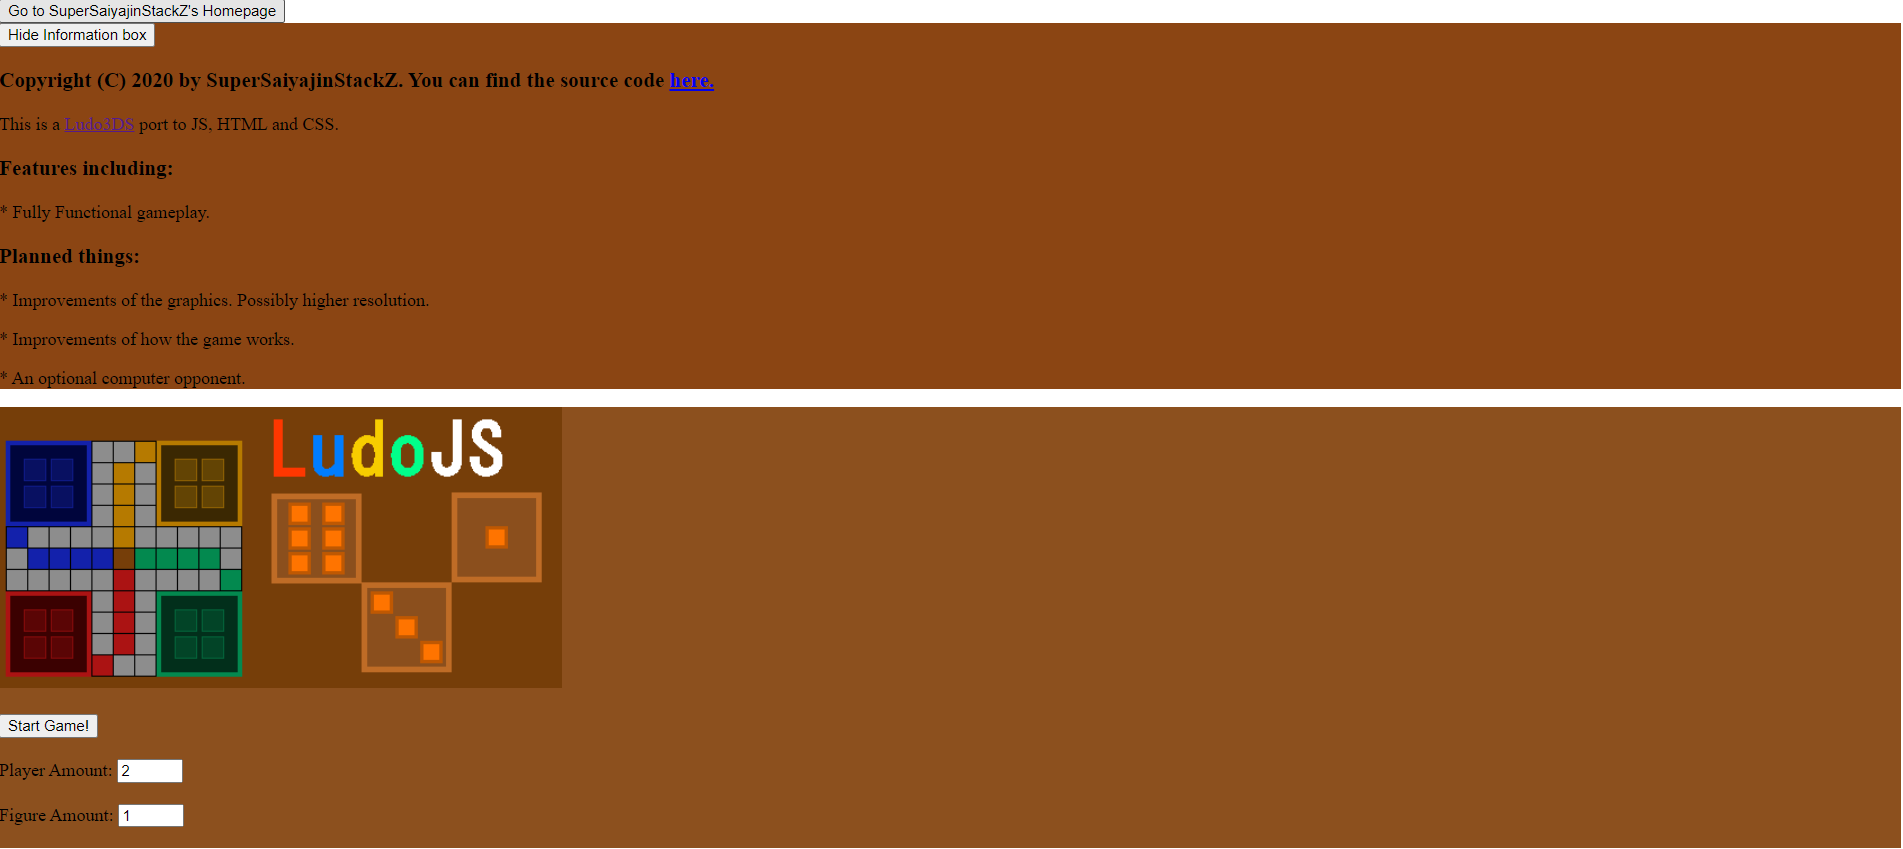
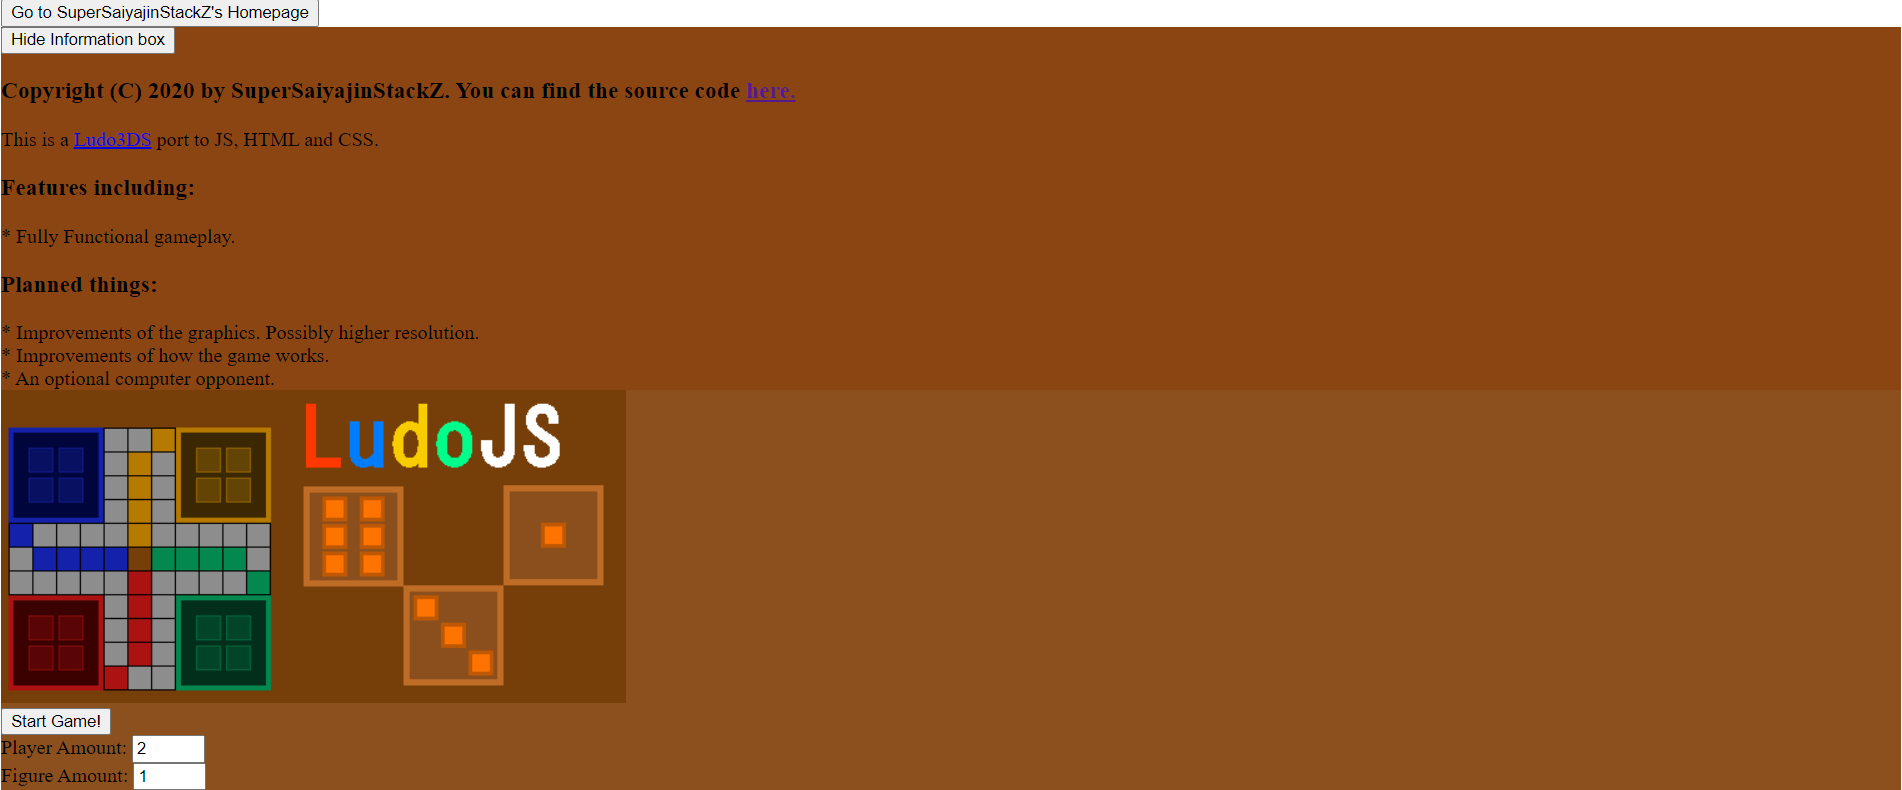
Ein paar kleine änderungen.

Changed region(s): [[0.0, 0.0, 1.0, 1.0], [0.9926, 0.9722, 1.0, 1.0]]

diff --git a/index.html b/index.html
@@ -22,26 +22,22 @@
 			<div id="InfoBox">
 				<button id="InfoBoxBtn">Hide Information box</button>
 				<h3>Copyright (C) 2020 by SuperSaiyajinStackZ. You can find the source code <a href="https://github.com/SuperSaiyajinStackZ/LudoJS">here.</a></h3> <!-- Copyright Notiz. -->
-				<p>This is a <a href="https://github.com/SuperSaiyajinStackZ/Ludo3DS">Ludo3DS</a> port to JS, HTML and CSS.</p>
+				This is a <a href="https://github.com/SuperSaiyajinStackZ/Ludo3DS">Ludo3DS</a> port to JS, HTML and CSS.<br>
 
 				<h3>Features including:</h3>
-				<p>* Fully Functional gameplay.</p>
+				* Fully Functional gameplay.<br>
 
 				<h3>Planned things:</h3>
-				<p>* Improvements of the graphics. Possibly higher resolution.</p>
-				<p>* Improvements of how the game works.</p>
-				<p>* An optional computer opponent.</p>
+				* Improvements of the graphics. Possibly higher resolution.<br>
+				* Improvements of how the game works.<br>
+				* An optional computer opponent.<br>
 			</div>
 
 			<div id="UIStyle">
-				<img id="LudoBanner" src="assets/images/banner.png" alt="LudoJS Game Banner">
-				<br></br>
-				<button id="GameStart">Start Game!</button>
-				<br></br>
-				<label for="PlayerAmount">Player Amount: </label><input type="number" min="2" max="4" id="PlayerAmount" value="2">
-				<br></br>
-				<label for="FigurAmount">Figure Amount: </label><input type="number" min="1" max="4" id="FigurAmount" value="1">
-				<br></br>
+				<img id="LudoBanner" src="assets/images/banner.png" alt="LudoJS Game Banner"><br>
+				<button id="GameStart">Start Game!</button><br>
+				<label for="PlayerAmount">Player Amount: </label><input type="number" min="2" max="4" id="PlayerAmount" value="2"><br>
+				<label for="FigurAmount">Figure Amount: </label><input type="number" min="1" max="4" id="FigurAmount" value="1"> <br>
 				<h2 id="LoadingText" class="showNone">Preparing your game...</h2>
 			</div>
 		</div>
@@ -49,8 +45,8 @@
 		<!-- Spiel Geschehen. -->
 		<div id="GamePlay" class="showNone">
 			<canvas id="GameField" width="210" height="210"></canvas>
+			<canvas id="Dice" width="80" height="80" class="d-none"></canvas><br>
 			Current Player: <b id="CurrentPlayer"></b>
-			<canvas id="Dice" width="80" height="80" class="d-none"></canvas>
 
 			<!-- Würfel Rollen Button. -->
 			<div id="DiceRoll">
